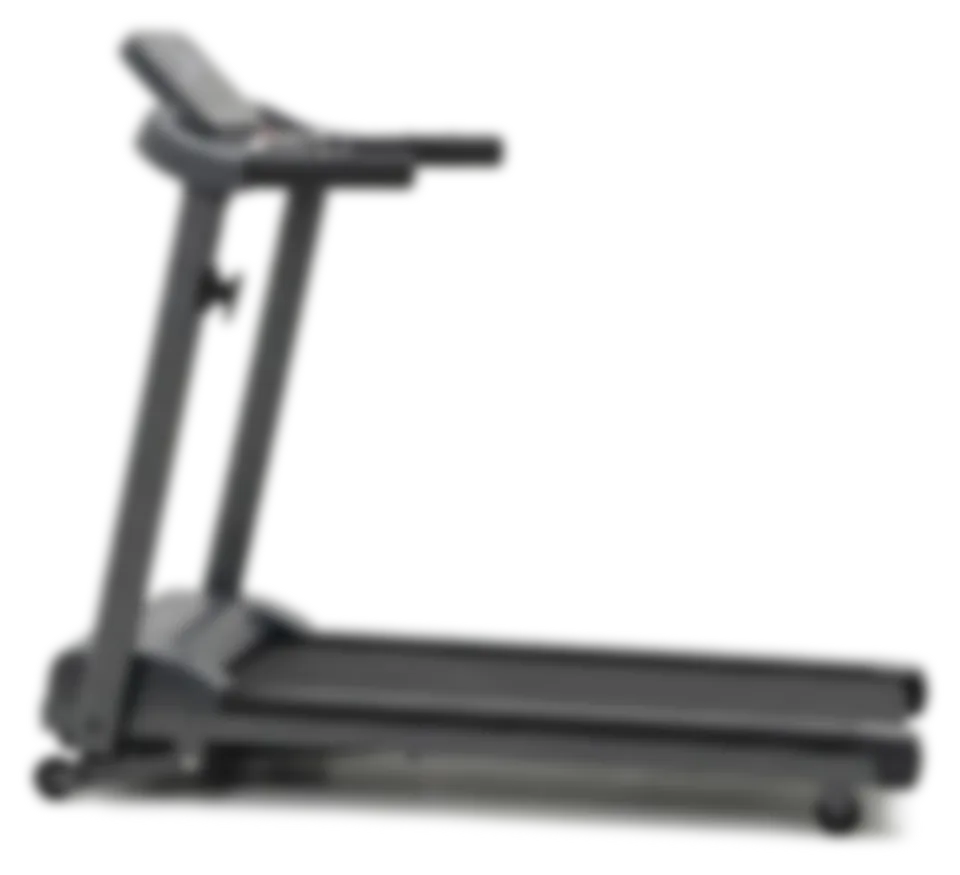
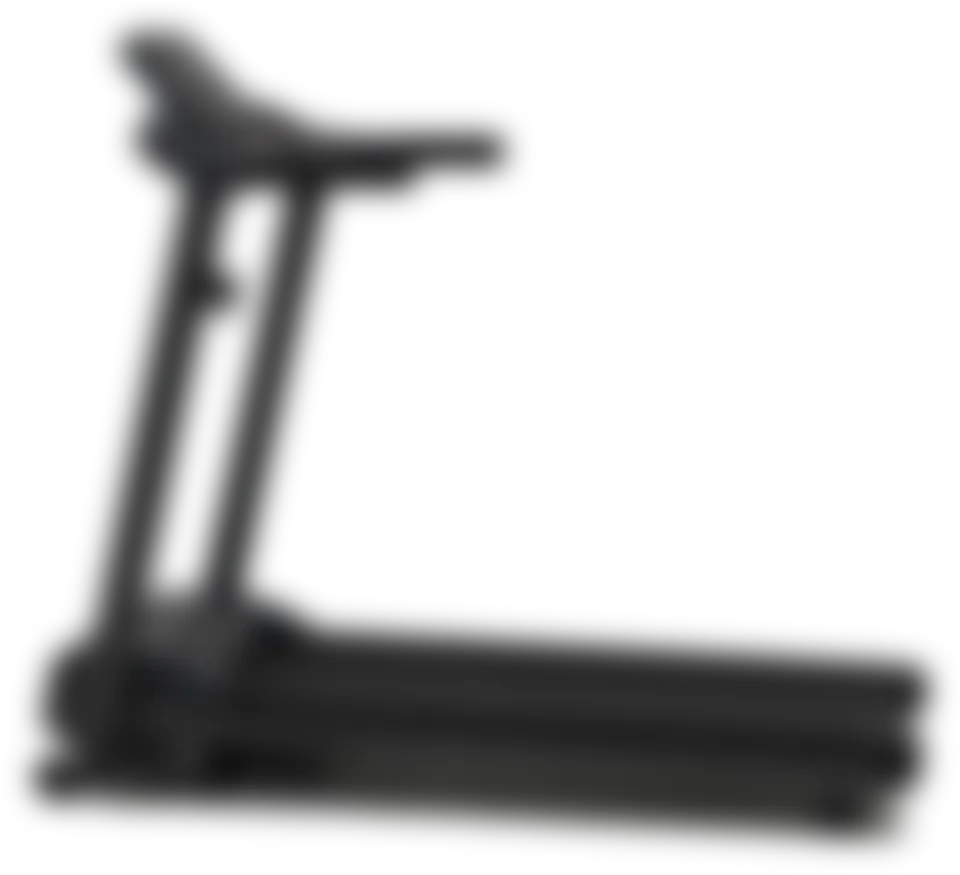
Web: cinta de fondo más desenfocada y oscura
Claude-Session: https://claude.ai/code/session_01Js8Zo7jhQnZn4PrrmfGVvb

Changed region(s): [[0.0, 0.0, 1.0, 0.9874]]

diff --git a/index.html b/index.html
@@ -17,8 +17,8 @@
 <script>try{var _t=localStorage.getItem("loop.theme");if(_t==="light"||_t==="dark")document.documentElement.dataset.theme=_t}catch(e){}</script>
 <style>
 :root{--bg:#f5f5f7;--card:#fff;--line:#d9d9de;--fg:#1d1d1f;--muted:#6e6e73;--accent:#3f7d00;--lime:#a3fa00;--on-lime:#000;--logo:#1d1d1f;--yellow:#e0b800;--red:#e8204a;--cyan:#00a6d6;--glow:rgba(120,200,0,.22);--tread:1;--shadow:rgba(0,0,0,.18);color-scheme:light}
-@media (prefers-color-scheme:dark){:root:not([data-theme="light"]){--bg:#000;--card:#1c1c1e;--line:#2c2c2e;--fg:#f5f5f7;--muted:#a1a1a6;--accent:#a3fa00;--logo:#a3fa00;--yellow:#ffe620;--red:#fa2d55;--cyan:#3cd7ff;--glow:rgba(163,250,0,.26);--tread:1.7;--shadow:rgba(0,0,0,.6);color-scheme:dark}}
-:root[data-theme="dark"]{--bg:#000;--card:#1c1c1e;--line:#2c2c2e;--fg:#f5f5f7;--muted:#a1a1a6;--accent:#a3fa00;--logo:#a3fa00;--yellow:#ffe620;--red:#fa2d55;--cyan:#3cd7ff;--glow:rgba(163,250,0,.26);--tread:1.7;--shadow:rgba(0,0,0,.6);color-scheme:dark}
+@media (prefers-color-scheme:dark){:root:not([data-theme="light"]){--bg:#000;--card:#1c1c1e;--line:#2c2c2e;--fg:#f5f5f7;--muted:#a1a1a6;--accent:#a3fa00;--logo:#a3fa00;--yellow:#ffe620;--red:#fa2d55;--cyan:#3cd7ff;--glow:rgba(163,250,0,.26);--tread:1.25;--shadow:rgba(0,0,0,.6);color-scheme:dark}}
+:root[data-theme="dark"]{--bg:#000;--card:#1c1c1e;--line:#2c2c2e;--fg:#f5f5f7;--muted:#a1a1a6;--accent:#a3fa00;--logo:#a3fa00;--yellow:#ffe620;--red:#fa2d55;--cyan:#3cd7ff;--glow:rgba(163,250,0,.26);--tread:1.25;--shadow:rgba(0,0,0,.6);color-scheme:dark}
 *{box-sizing:border-box}
 [hidden]{display:none!important}
 html{-webkit-text-size-adjust:100%;overflow-x:clip}
@@ -51,7 +51,7 @@ footer small{display:block;max-width:60ch;margin-top:6px}
 .req{color:var(--muted);font-size:15px;font-weight:700}
 .stage{position:relative;margin:0;width:100%;max-width:580px;justify-self:center;aspect-ratio:1/1.02}
 .stage::before{content:"";position:absolute;inset:14% 6% 10% 8%;background:radial-gradient(closest-side,var(--glow),transparent);filter:blur(10px)}
-.tread{position:absolute;pointer-events:none;filter:brightness(var(--tread));opacity:.9}
+.tread{position:absolute;pointer-events:none;filter:brightness(var(--tread));opacity:.75}
 .stage .tread{left:-22%;bottom:-6%;width:128%}
 .stage picture{position:absolute;display:block}
 .stage img{display:block;width:100%;height:auto}

diff --git a/contacto/index.html b/contacto/index.html
@@ -17,8 +17,8 @@
 <script>try{var _t=localStorage.getItem("loop.theme");if(_t==="light"||_t==="dark")document.documentElement.dataset.theme=_t}catch(e){}</script>
 <style>
 :root{--bg:#f5f5f7;--card:#fff;--line:#d9d9de;--fg:#1d1d1f;--muted:#6e6e73;--accent:#3f7d00;--lime:#a3fa00;--on-lime:#000;--logo:#1d1d1f;--yellow:#e0b800;--red:#e8204a;--cyan:#00a6d6;--glow:rgba(120,200,0,.22);--tread:1;--shadow:rgba(0,0,0,.18);color-scheme:light}
-@media (prefers-color-scheme:dark){:root:not([data-theme="light"]){--bg:#000;--card:#1c1c1e;--line:#2c2c2e;--fg:#f5f5f7;--muted:#a1a1a6;--accent:#a3fa00;--logo:#a3fa00;--yellow:#ffe620;--red:#fa2d55;--cyan:#3cd7ff;--glow:rgba(163,250,0,.26);--tread:1.7;--shadow:rgba(0,0,0,.6);color-scheme:dark}}
-:root[data-theme="dark"]{--bg:#000;--card:#1c1c1e;--line:#2c2c2e;--fg:#f5f5f7;--muted:#a1a1a6;--accent:#a3fa00;--logo:#a3fa00;--yellow:#ffe620;--red:#fa2d55;--cyan:#3cd7ff;--glow:rgba(163,250,0,.26);--tread:1.7;--shadow:rgba(0,0,0,.6);color-scheme:dark}
+@media (prefers-color-scheme:dark){:root:not([data-theme="light"]){--bg:#000;--card:#1c1c1e;--line:#2c2c2e;--fg:#f5f5f7;--muted:#a1a1a6;--accent:#a3fa00;--logo:#a3fa00;--yellow:#ffe620;--red:#fa2d55;--cyan:#3cd7ff;--glow:rgba(163,250,0,.26);--tread:1.25;--shadow:rgba(0,0,0,.6);color-scheme:dark}}
+:root[data-theme="dark"]{--bg:#000;--card:#1c1c1e;--line:#2c2c2e;--fg:#f5f5f7;--muted:#a1a1a6;--accent:#a3fa00;--logo:#a3fa00;--yellow:#ffe620;--red:#fa2d55;--cyan:#3cd7ff;--glow:rgba(163,250,0,.26);--tread:1.25;--shadow:rgba(0,0,0,.6);color-scheme:dark}
 *{box-sizing:border-box}
 [hidden]{display:none!important}
 html{-webkit-text-size-adjust:100%;overflow-x:clip}
